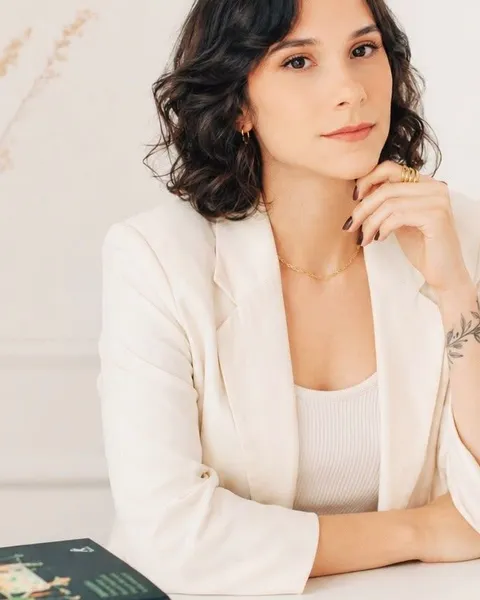
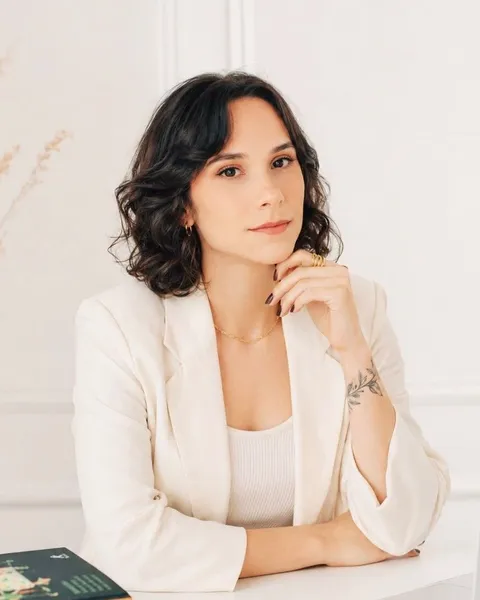
Centraliza foto do FAQ para mostrar a cabeça inteira

diff --git a/index.html b/index.html
@@ -255,8 +255,8 @@
         <figure class="faq-photo" data-reveal>
           <div class="arch">
             <picture>
-              <source type="image/webp" sizes="(min-width: 64rem) 340px, 70vw" srcset="assets/img/perfil-480.webp 480w, assets/img/perfil-640.webp 640w">
-              <img src="assets/img/perfil-640.jpg" srcset="assets/img/perfil-480.jpg 480w, assets/img/perfil-640.jpg 640w" sizes="(min-width: 64rem) 340px, 70vw" alt="Retrato de Carol Varela, nutricionista, de blazer claro, com livros de nutrição sobre a mesa" width="640" height="800" loading="lazy">
+              <source type="image/webp" sizes="(min-width: 64rem) 340px, 70vw" srcset="assets/img/perfil-480.webp 480w, assets/img/perfil-608.webp 608w">
+              <img src="assets/img/perfil-608.jpg" srcset="assets/img/perfil-480.jpg 480w, assets/img/perfil-608.jpg 608w" sizes="(min-width: 64rem) 340px, 70vw" alt="Retrato de Carol Varela, nutricionista, de blazer claro, com livros de nutrição sobre a mesa" width="608" height="760" loading="lazy">
             </picture>
           </div>
         </figure>
